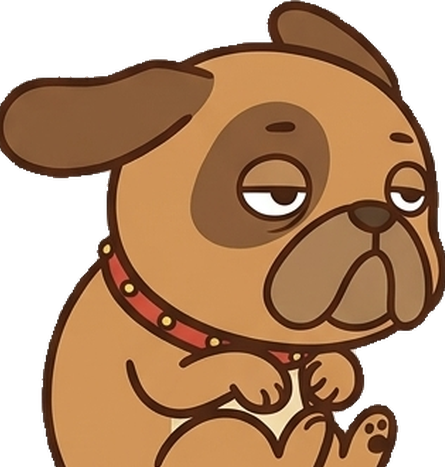
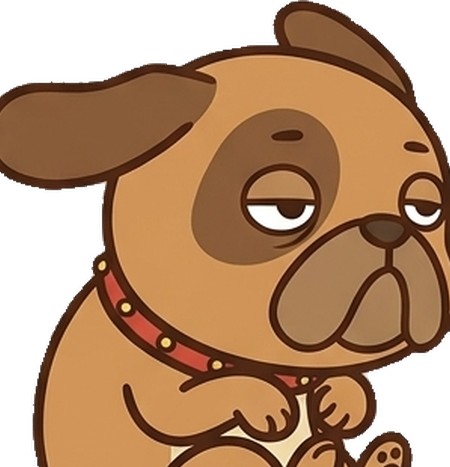
Fill in the gallop with two in-between poses
Four frames instead of two. The generated extremes were a full stretch and a
gathered leap, which alternated but read as a toggle rather than a run; the
landing and push-off poses in between give it a cycle.

Order came from measuring rather than guessing: paw spread across the four is
97%, 85%, 67%, 83% of body width, so they sequence into one oscillation out and
back. A gallop is legs opening and closing, so a spread that climbs or falls
monotonically means the order is wrong -- which is a cheaper check than watching
it and squinting.

Claude-Session: https://claude.ai/code/session_01CiV89PmwgyajyYojwjxUnS

diff --git a/assets/dog/README.md b/assets/dog/README.md
@@ -62,23 +62,28 @@ cp ~/Downloads/dog-*.png assets/dog/
 
 ## 지금 들어있는 그림
 
-Gemini(Nano Banana)로 생성한 4포즈를 둘로 나눠 쓴다.
+Gemini(Nano Banana)로 두 번에 나눠 생성했다. 먼저 극단 포즈 4종, 그중 달리기 2종에
+중간 동작 2종을 더해 4프레임 갤럽 사이클을 만들었다.
 
-| 파일 | 포즈 | 언제 |
+| 파일 | 포즈 | 다리 벌어짐 |
 |---|---|---|
-| `run-1.png` | 앞발 모으고 도약 | 0~90%, 무드별로 속도만 다름 |
-| `run-2.png` | 네 다리 쫙 뻗은 질주 | 〃 |
-| `spent-1.png` | 앉아서 고개 숙임 | 90% 초과 |
-| `spent-2.png` | 몸 세우고 앞발 모음 | 〃 |
+| `run-1.png` | 질주 (최대 신전) | 97% |
+| `run-2.png` | 착지 | 85% |
+| `run-3.png` | 도약 (다리 모음) | 67% |
+| `run-4.png` | 밀어내기 | 83% |
+| `spent-1.png` | 앉아서 고개 숙임 | — |
+| `spent-2.png` | 몸 세우고 앞발 모음 | — |
+
+**순서는 다리 벌어짐이 97 → 85 → 67 → 83 으로 드나들도록 잡았다.** 갤럽은 다리가
+벌어졌다 모였다 하는 진동이므로, 이 수치가 단조롭게 늘거나 줄면 순서가 틀린 것이다.
 
 `spent-*` 는 무드 전용이라 공용 `run-*` 보다 우선한다. 90%를 넘으면 달리기를 멈추고
 이 둘을 2.6초에 한 번씩 천천히 번갈아 — 완전히 멈춘 그림은 쉬는 게 아니라 앱이
 고장난 것처럼 보이기 때문이다.
 
-**달리기가 2프레임뿐인 게 부족해 보이지만 최소 요건은 넘는다.** 46pt에서는 프레임 수보다
-두 극단의 대비가 motion 을 만든다. 첫 시도는 10프레임이었는데 발이 263px 캔버스에서
-10px(3.8%)밖에 안 움직여서 버렸다 — 지금은 137px(30.7%)이다. `prepare.py` 가 가공
-끝에 이 수치를 찍어주니, 새 그림을 넣을 때마다 확인할 것.
+첫 시도는 10프레임 한 장짜리 시트였는데 발이 263px 캔버스에서 10px(3.8%)밖에 안
+움직여서 버렸다. 지금은 30%다. `prepare.py` 가 가공 끝에 이 수치를 찍어주니 새 그림을
+넣을 때마다 확인할 것.
 
 ## 라이선스 주의
 
